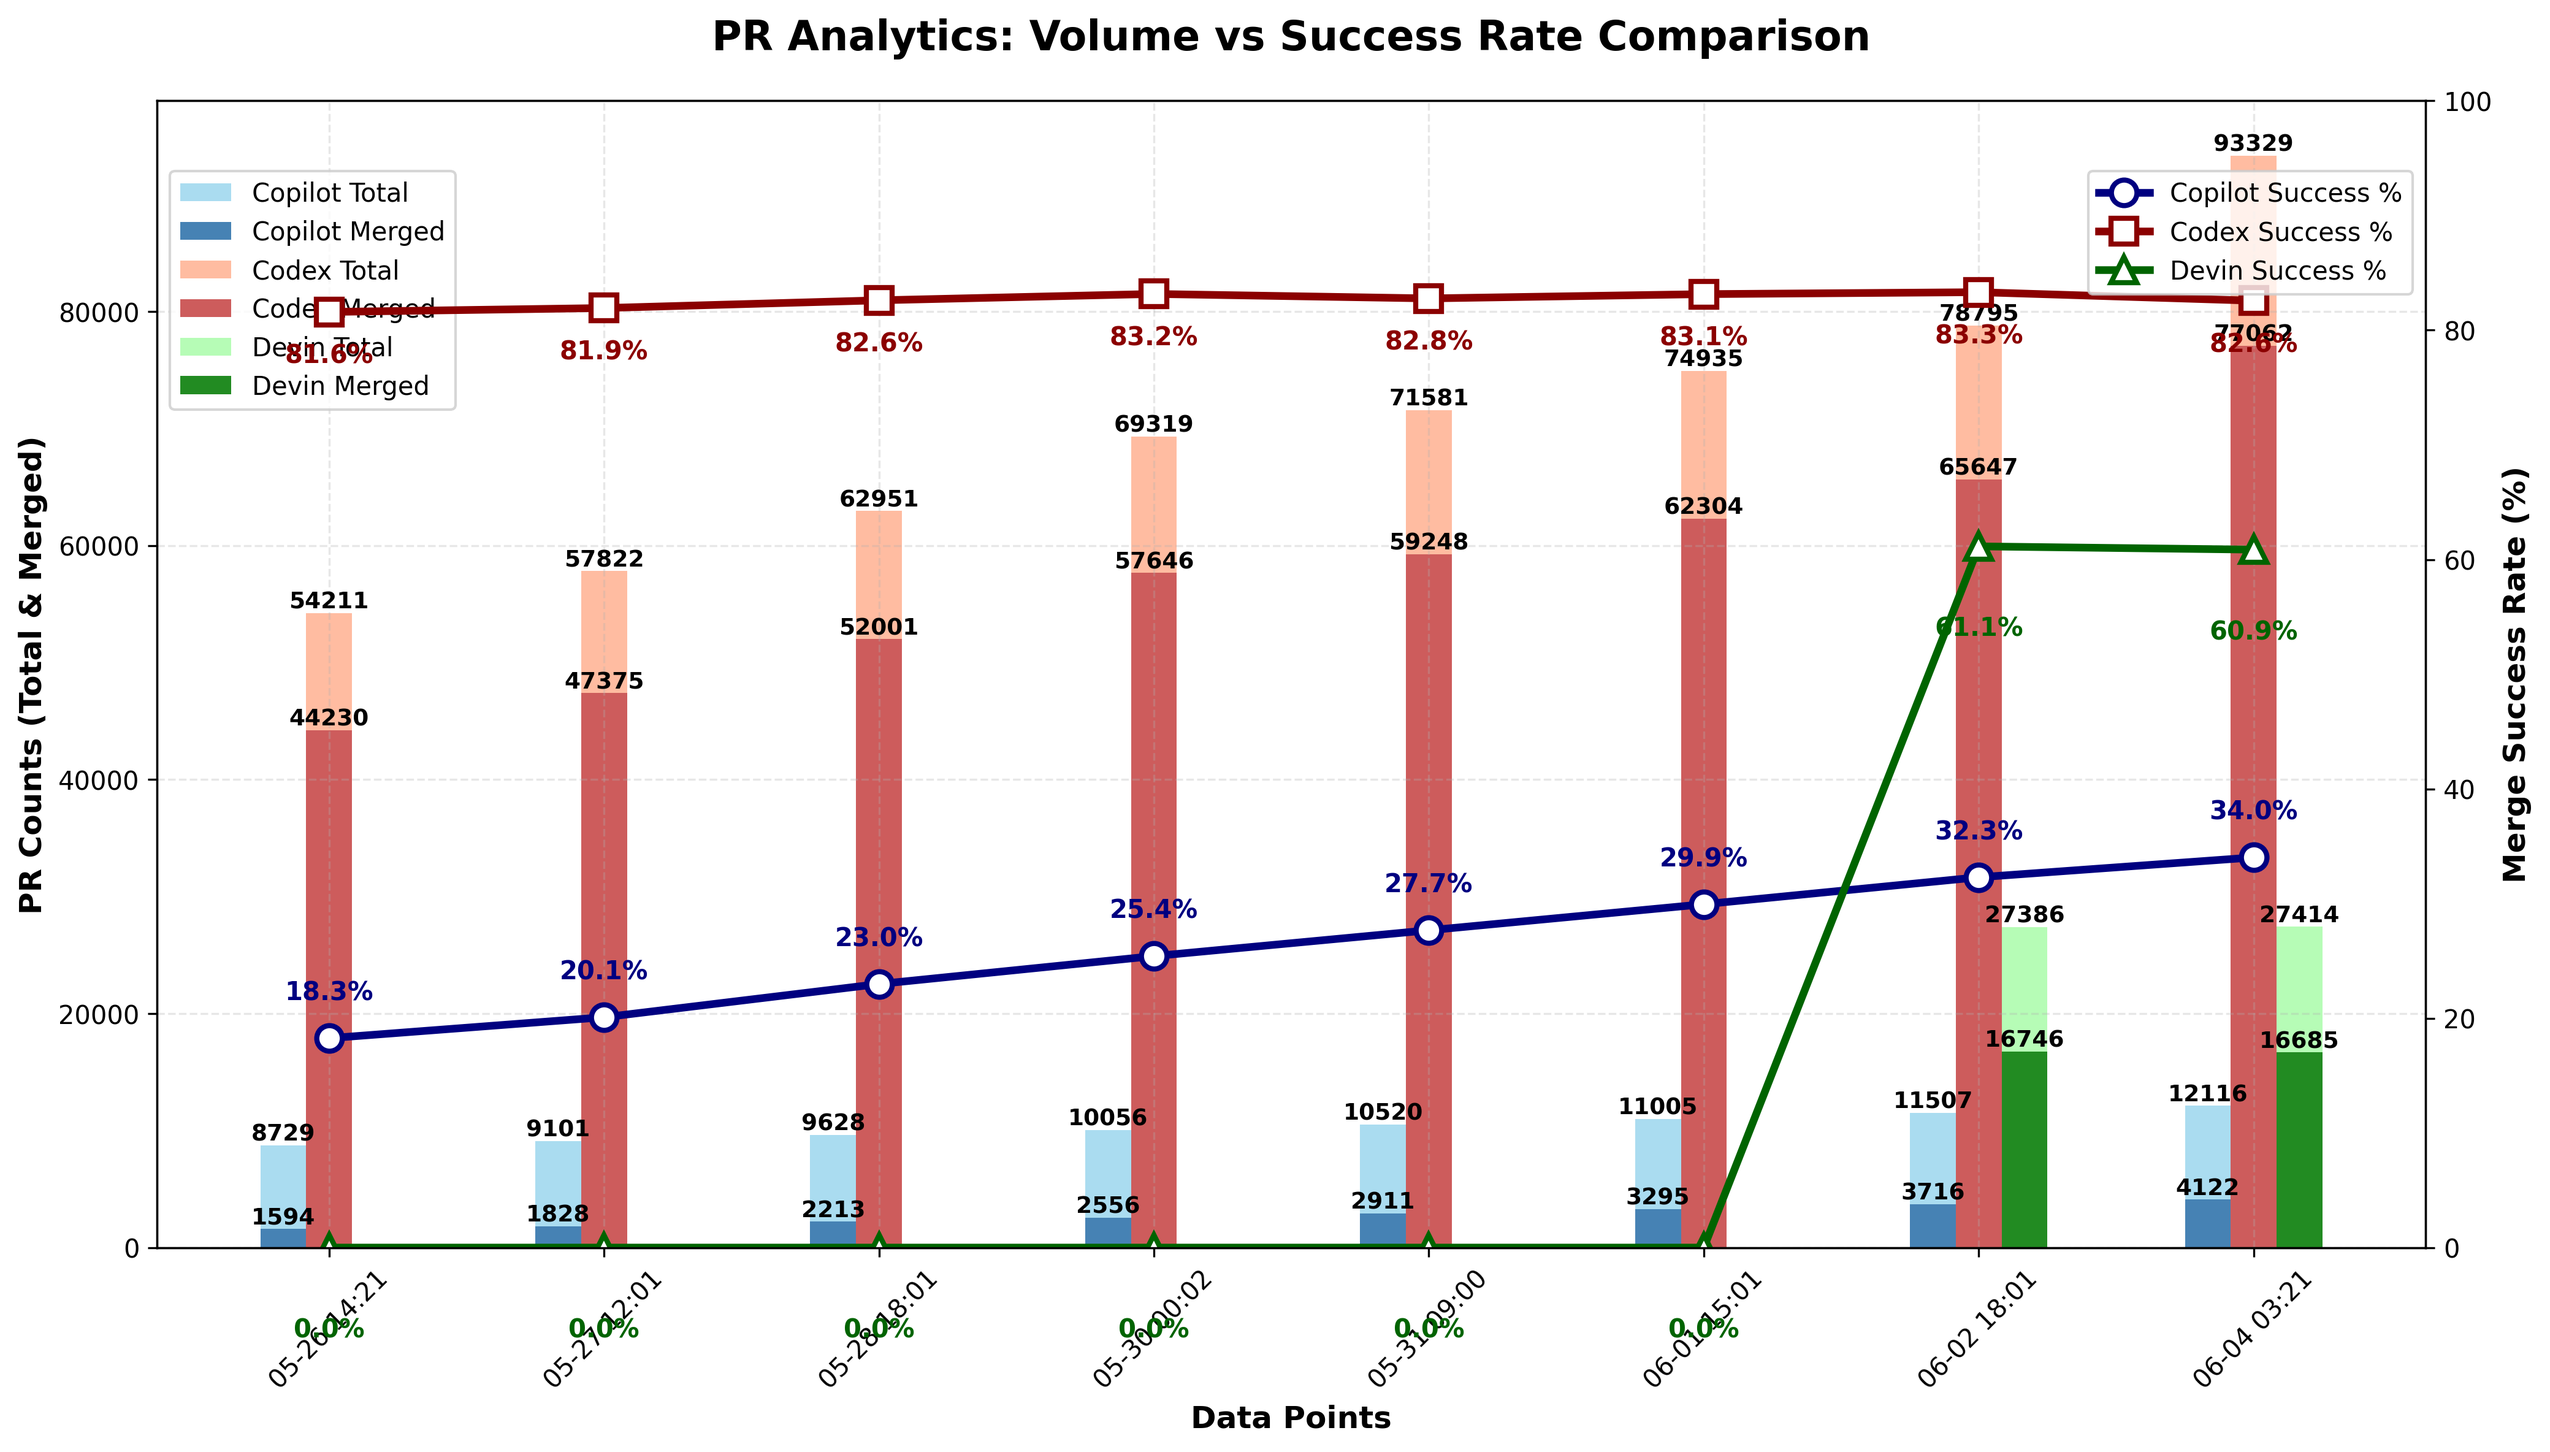
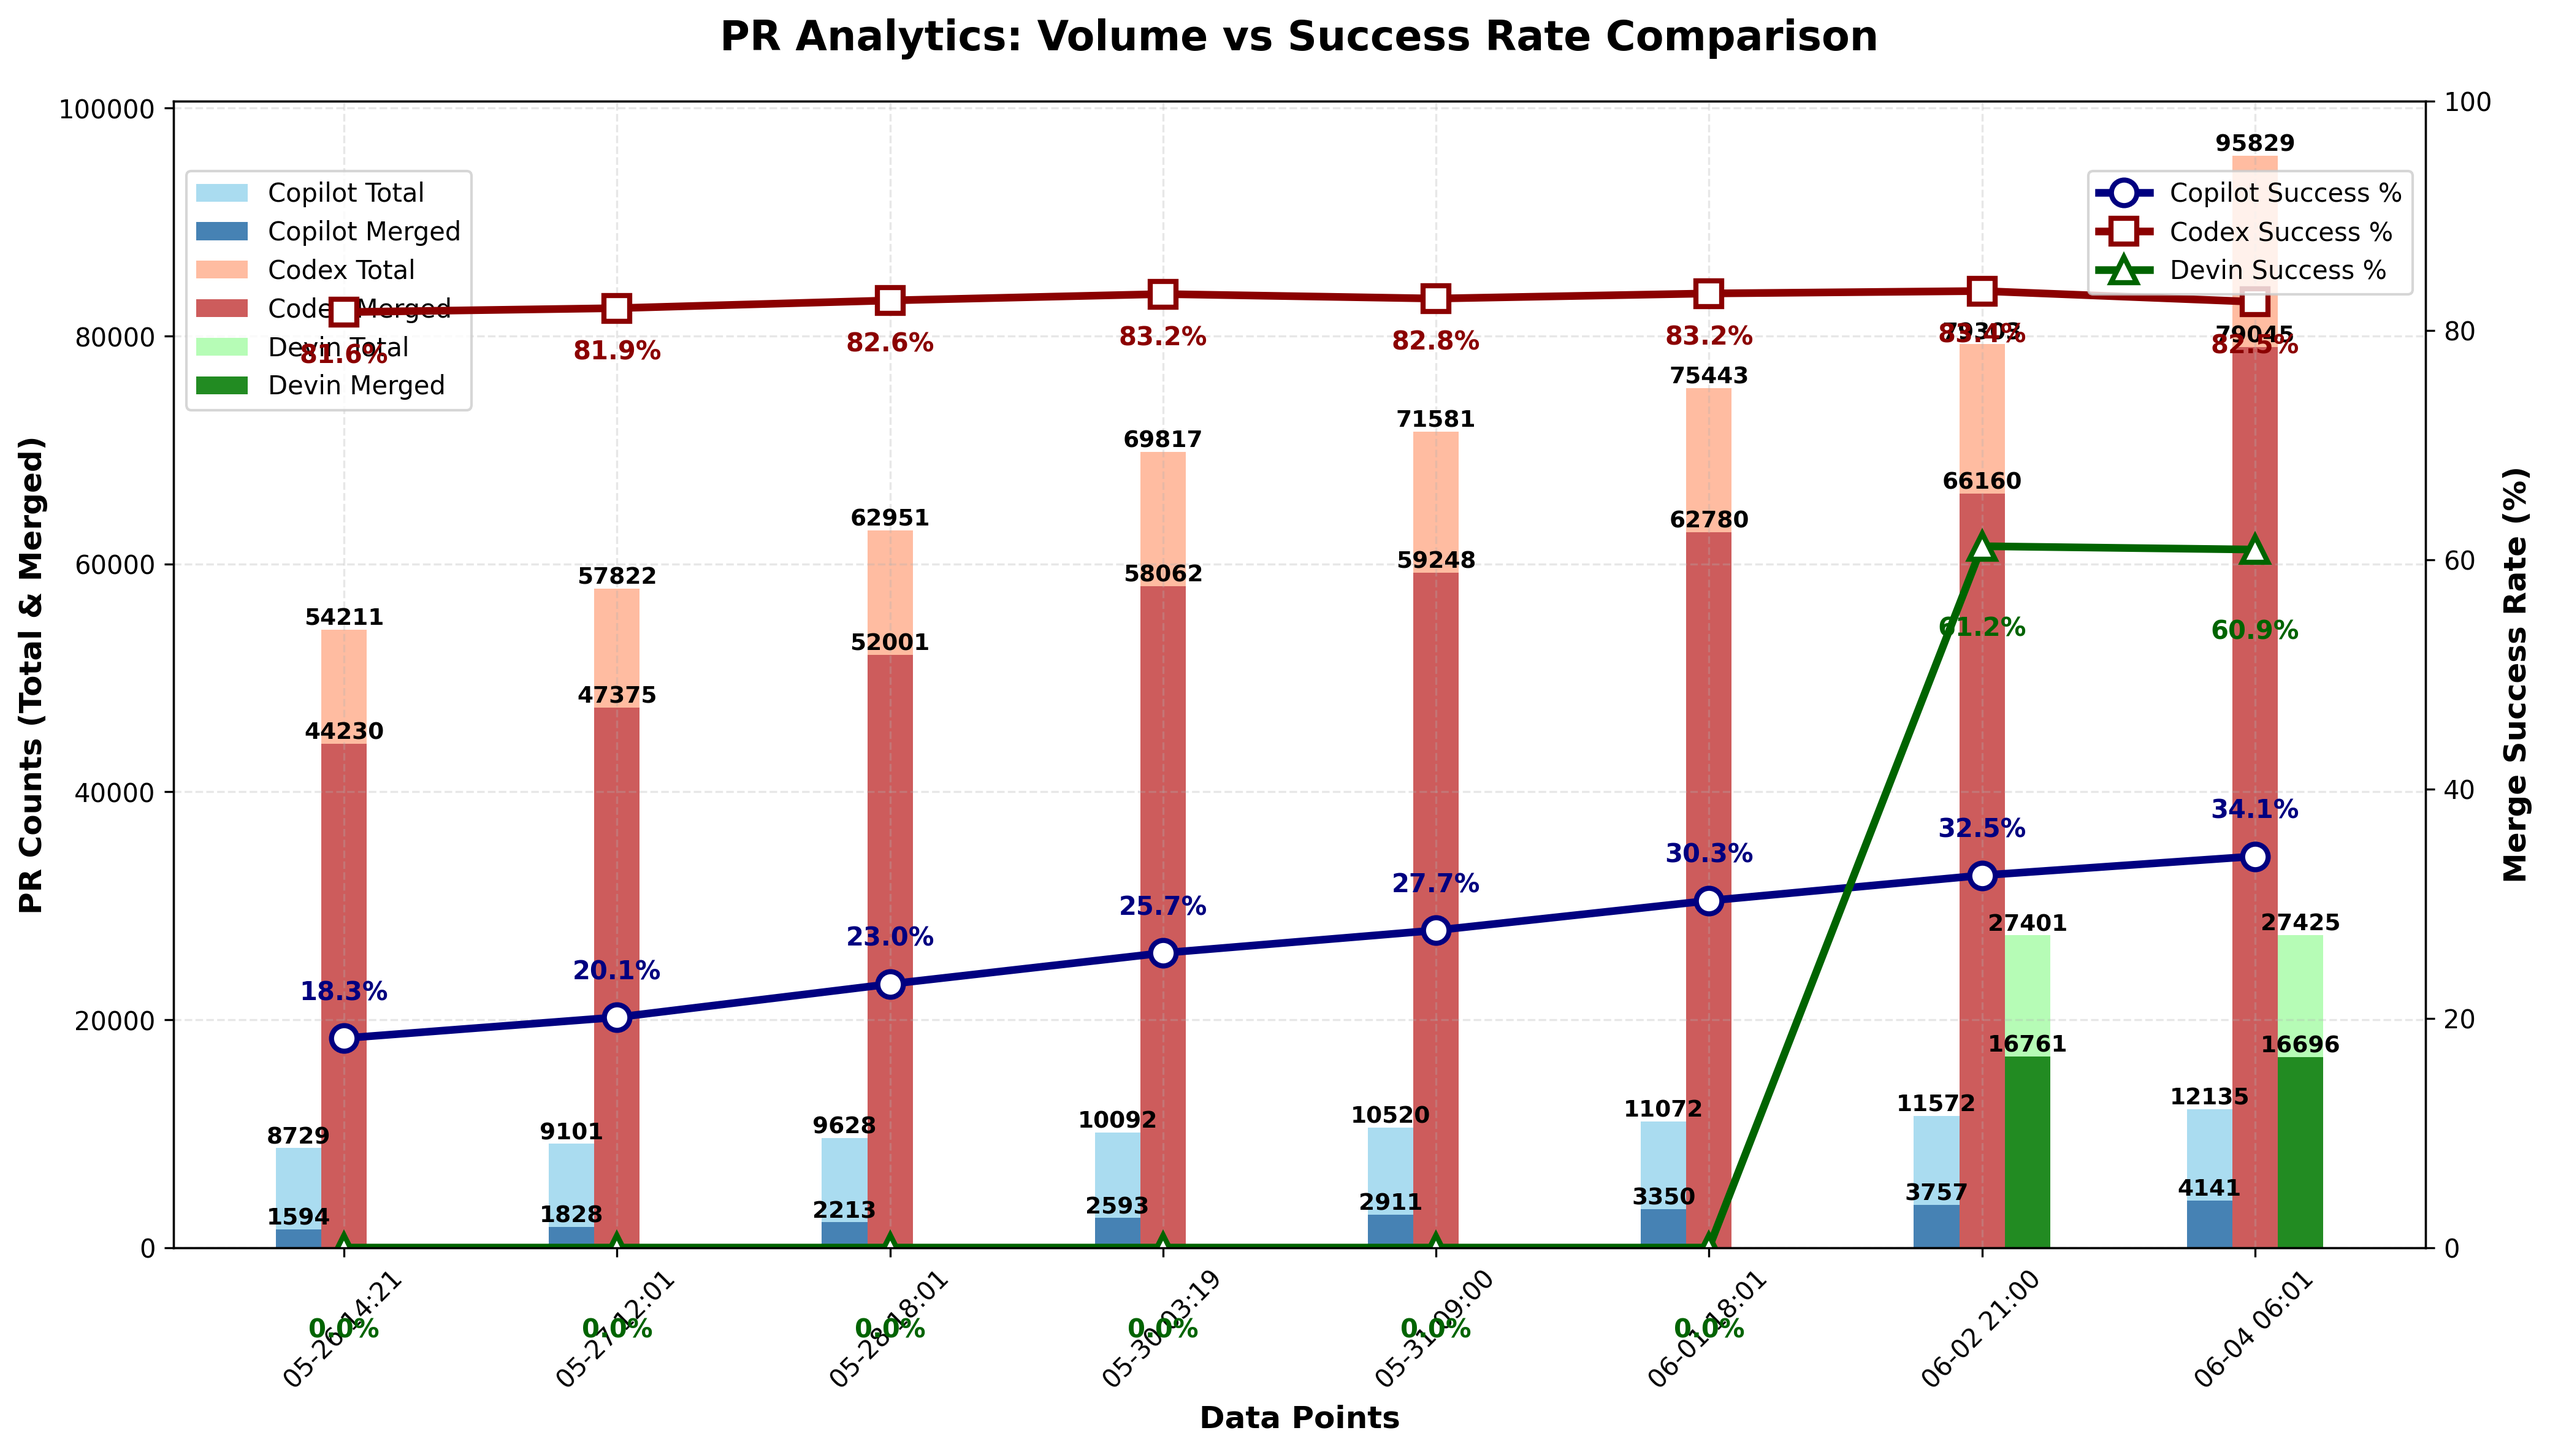
chore: update PR‑approval chart

diff --git a/docs/index.html b/docs/index.html
@@ -46,22 +46,22 @@
                 <tbody>
                     <tr>
                         <td>Copilot</td>
-                        <td>12,116</td>
-                        <td>4,122</td>
-                        <td>34.02%</td>
+                        <td>12,135</td>
+                        <td>4,141</td>
+                        <td>34.12%</td>
                     </tr>
                     <tr>
                         <td>Codex</td>
-                        <td>93,329</td>
-                        <td>77,062</td>
-                        <td>82.57%</td>
+                        <td>95,829</td>
+                        <td>79,045</td>
+                        <td>82.49%</td>
                     </tr>
                 </tbody>
             </table>
         </section>
 
         <footer>
-            <p>Last updated: <span id="last-updated">June 04, 2025 03:21 UTC</span></p>
+            <p>Last updated: <span id="last-updated">June 04, 2025 06:01 UTC</span></p>
             <p><a href="https://github.com/aavetis/ai-pr-watcher">View on GitHub</a></p>
         </footer>
     </div>

diff --git a/README.md b/README.md
@@ -21,6 +21,6 @@ Explore the GitHub search queries used:
 
 | Project | Total PRs | Merged PRs | Merge Rate |
 | ------- | --------- | ---------- | ---------- |
-| Copilot | 12,116 | 4,122 | 34.02% |
-| Codex   | 93,329 | 77,062 | 82.57% |
-| Devin   | 27,414 | 16,685 | 60.86% |
+| Copilot | 12,135 | 4,141 | 34.12% |
+| Codex   | 95,829 | 79,045 | 82.49% |
+| Devin   | 27,425 | 16,696 | 60.88% |
